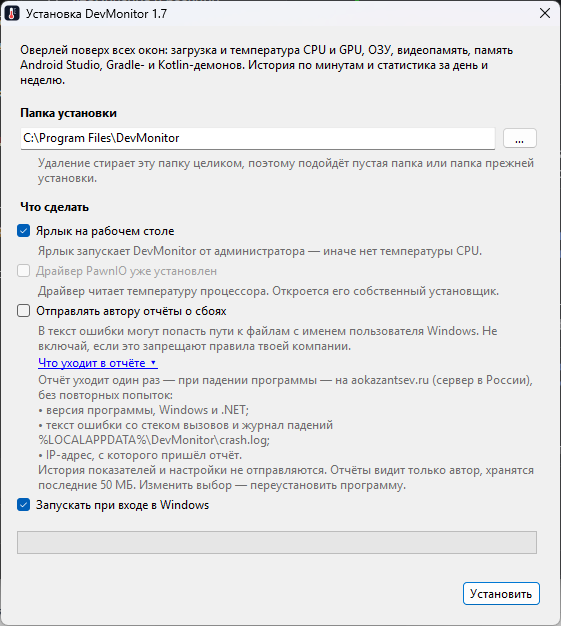
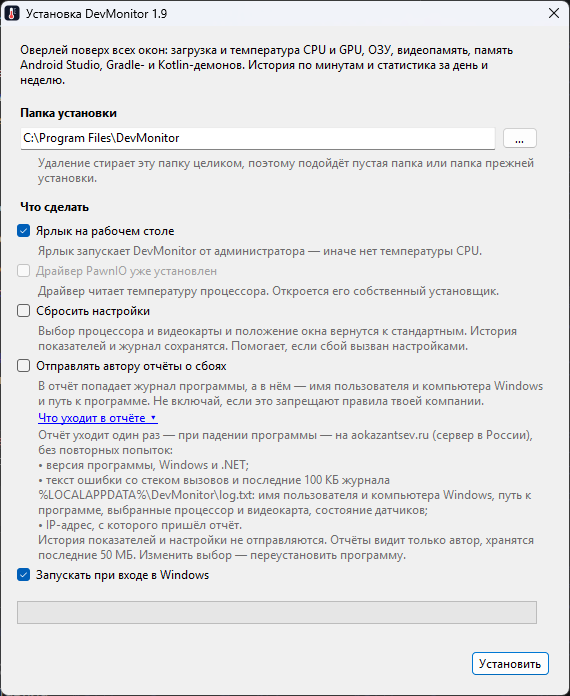
Проверка обновлений из трея с загрузкой установщика, галочка «Сбросить настройки» в установщике, версия 1.9

diff --git a/src/UpdateForm.cs b/src/UpdateForm.cs
@@ -1,0 +1,143 @@
+using System;
+using System.Diagnostics;
+using System.Drawing;
+using System.Threading;
+using System.Windows.Forms;
+
+namespace DevMonitor
+{
+    internal sealed class UpdateForm : Form
+    {
+        private const int ContentWidth = 420;
+
+        private static UpdateForm openForm;
+
+        private readonly Label status = new Label();
+        private readonly TextBox pathBox = new TextBox();
+        private readonly FlowLayoutPanel fileButtons = new FlowLayoutPanel();
+        private string downloadedPath;
+
+        public static void ShowSingle()
+        {
+            if (openForm != null)
+            {
+                openForm.Activate();
+                return;
+            }
+            openForm = new UpdateForm();
+            openForm.FormClosed += (sender, e) => openForm = null;
+            openForm.Show();
+            openForm.Start();
+        }
+
+        private UpdateForm()
+        {
+            Text = "Обновление " + AppIdentity.Name;
+            FormBorderStyle = FormBorderStyle.FixedDialog;
+            MaximizeBox = false;
+            MinimizeBox = false;
+            StartPosition = FormStartPosition.CenterScreen;
+            AutoScaleMode = AutoScaleMode.Dpi;
+            Font = SystemFonts.MessageBoxFont;
+            AutoSize = true;
+            AutoSizeMode = AutoSizeMode.GrowAndShrink;
+            Icon = Icon.ExtractAssociatedIcon(Application.ExecutablePath);
+
+            var layout = new TableLayoutPanel { AutoSize = true, ColumnCount = 1, Padding = new Padding(16) };
+            Controls.Add(layout);
+
+            status.AutoSize = true;
+            status.MaximumSize = new Size(ContentWidth, 0);
+            status.Text = "Проверяю, есть ли версия новее " + AppIdentity.Version + "…";
+            layout.Controls.Add(status);
+
+            pathBox.ReadOnly = true;
+            pathBox.Width = ContentWidth;
+            pathBox.Margin = new Padding(3, 10, 3, 3);
+            pathBox.Visible = false;
+            layout.Controls.Add(pathBox);
+
+            fileButtons.AutoSize = true;
+            fileButtons.Visible = false;
+            fileButtons.Margin = new Padding(0, 6, 0, 0);
+            var openFolder = new Button { Text = "Открыть папку", AutoSize = true };
+            openFolder.Click += (sender, e) => ShowInExplorer(downloadedPath);
+            var copyPath = new Button { Text = "Скопировать путь", AutoSize = true };
+            copyPath.Click += (sender, e) => Clipboard.SetText(downloadedPath);
+            fileButtons.Controls.Add(openFolder);
+            fileButtons.Controls.Add(copyPath);
+            layout.Controls.Add(fileButtons);
+
+            var close = new Button { Text = "Закрыть", AutoSize = true, Anchor = AnchorStyles.Right, Margin = new Padding(3, 12, 3, 0) };
+            close.Click += (sender, e) => Close();
+            layout.Controls.Add(close);
+            CancelButton = close;
+        }
+
+        private void Start()
+        {
+            var worker = new Thread(Check) { IsBackground = true };
+            worker.Start();
+        }
+
+        private void Check()
+        {
+            try
+            {
+                UpdateRelease release = UpdateChecker.FetchLatest();
+                Version current = UpdateChecker.CurrentVersion;
+                AppLog.Append("update check: installed " + AppIdentity.Version + ", latest " + release.VersionText);
+                if (release.Version <= current)
+                {
+                    Report("Установлена последняя версия — " + AppIdentity.Version + ".", null);
+                    return;
+                }
+                Report("Есть версия " + release.VersionText + ", скачиваю установщик (" + (release.Size / 1024 / 1024.0).ToString("0.0") + " МБ)…", null);
+                string path = UpdateChecker.Download(release);
+                AppLog.Append("update downloaded: " + path);
+                Report("Скачана версия " + release.VersionText + ". Запусти установщик — он поставит её поверх текущей, настройки сохранятся. "
+                    + "Папка с установщиком открыта в Проводнике; если окно не появилось — кнопка «Открыть папку».", path);
+            }
+            catch (Exception error)
+            {
+                AppLog.Append("update check failed: " + error);
+                Report("Не удалось проверить обновление: " + error.Message
+                    + Environment.NewLine + "Последняя версия всегда есть на " + AppIdentity.GitHubUrl + "/releases/latest", null);
+            }
+        }
+
+        private void Report(string text, string path)
+        {
+            try
+            {
+                BeginInvoke(new Action(() => ShowResult(text, path)));
+            }
+            catch (InvalidOperationException)
+            {
+            }
+        }
+
+        private void ShowResult(string text, string path)
+        {
+            status.Text = text;
+            if (path == null) return;
+            downloadedPath = path;
+            pathBox.Text = path;
+            pathBox.Visible = true;
+            fileButtons.Visible = true;
+            ShowInExplorer(path);
+        }
+
+        private static void ShowInExplorer(string path)
+        {
+            try
+            {
+                Process.Start(new ProcessStartInfo("explorer.exe", "/select,\"" + path + "\"") { UseShellExecute = false });
+            }
+            catch (System.ComponentModel.Win32Exception error)
+            {
+                AppLog.Append("explorer failed: " + error.Message);
+            }
+        }
+    }
+}

diff --git a/src/UpdateChecker.cs b/src/UpdateChecker.cs
@@ -1,0 +1,106 @@
+using System;
+using System.Globalization;
+using System.IO;
+using System.Net;
+using System.Runtime.InteropServices;
+using System.Text;
+using System.Text.RegularExpressions;
+
+namespace DevMonitor
+{
+    internal static class UpdateChecker
+    {
+        private const string GitHubPrefix = "https://github.com/";
+        private const string ApiPrefix = "https://api.github.com/repos/";
+        private const int RequestTimeoutMs = 15 * 1000;
+        private const int DownloadTimeoutMs = 120 * 1000;
+        private const int BufferSize = 81920;
+        private static readonly Guid DownloadsFolderId = new Guid("374DE290-123F-4565-9164-39C4925E467B");
+
+        public static Version CurrentVersion
+        {
+            get { return ParseVersion(AppIdentity.Version); }
+        }
+
+        public static Version ParseVersion(string text)
+        {
+            var parsed = new Version(text.Trim().TrimStart('v', 'V'));
+            return new Version(parsed.Major, parsed.Minor, Math.Max(0, parsed.Build), Math.Max(0, parsed.Revision));
+        }
+
+        public static UpdateRelease FetchLatest()
+        {
+            ServicePointManager.SecurityProtocol |= SecurityProtocolType.Tls12;
+            string url = ApiPrefix + AppIdentity.GitHubUrl.Substring(GitHubPrefix.Length) + "/releases/latest";
+            HttpWebRequest request = CreateRequest(url, RequestTimeoutMs);
+            request.Accept = "application/vnd.github+json";
+            string json;
+            using (var response = (HttpWebResponse)request.GetResponse())
+            using (var reader = new StreamReader(response.GetResponseStream(), Encoding.UTF8))
+            {
+                json = reader.ReadToEnd();
+            }
+            Match tag = Regex.Match(json, "\"tag_name\"\\s*:\\s*\"(v?[0-9][0-9.]*)\"");
+            if (!tag.Success) throw new InvalidDataException("в ответе GitHub нет номера версии");
+            string assetName = AppIdentity.Name + "Setup.exe";
+            Match asset = Regex.Match(json, "\"size\"\\s*:\\s*([0-9]+)[^{}]*?\"browser_download_url\"\\s*:\\s*\"([^\"]*/" + Regex.Escape(assetName) + ")\"");
+            if (!asset.Success) throw new InvalidDataException("в последнем релизе нет файла " + assetName);
+            return new UpdateRelease(tag.Groups[1].Value.TrimStart('v', 'V'), asset.Groups[2].Value,
+                long.Parse(asset.Groups[1].Value, CultureInfo.InvariantCulture));
+        }
+
+        public static string Download(UpdateRelease release)
+        {
+            string folder = DownloadsDirectory();
+            Directory.CreateDirectory(folder);
+            string target = Path.Combine(folder, AppIdentity.Name + "Setup-" + release.VersionText + ".exe");
+            string partial = target + ".part";
+            HttpWebRequest request = CreateRequest(release.DownloadUrl, DownloadTimeoutMs);
+            using (var response = (HttpWebResponse)request.GetResponse())
+            using (Stream source = response.GetResponseStream())
+            using (var output = new FileStream(partial, FileMode.Create, FileAccess.Write))
+            {
+                source.CopyTo(output, BufferSize);
+            }
+            if (release.Size > 0 && new FileInfo(partial).Length != release.Size)
+            {
+                File.Delete(partial);
+                throw new IOException("файл скачался не полностью");
+            }
+            if (File.Exists(target)) File.Delete(target);
+            File.Move(partial, target);
+            return target;
+        }
+
+        private static HttpWebRequest CreateRequest(string url, int timeoutMs)
+        {
+            ServicePointManager.SecurityProtocol |= SecurityProtocolType.Tls12;
+            var request = (HttpWebRequest)WebRequest.Create(url);
+            request.UserAgent = AppIdentity.Name + "/" + AppIdentity.Version;
+            request.Timeout = timeoutMs;
+            request.ReadWriteTimeout = timeoutMs;
+            return request;
+        }
+
+        private static string DownloadsDirectory()
+        {
+            Guid folderId = DownloadsFolderId;
+            IntPtr pathPointer;
+            if (SHGetKnownFolderPath(ref folderId, 0, IntPtr.Zero, out pathPointer) == 0)
+            {
+                try
+                {
+                    return Marshal.PtrToStringUni(pathPointer);
+                }
+                finally
+                {
+                    Marshal.FreeCoTaskMem(pathPointer);
+                }
+            }
+            return Path.Combine(Environment.GetFolderPath(Environment.SpecialFolder.UserProfile), "Downloads");
+        }
+
+        [DllImport("shell32.dll")]
+        private static extern int SHGetKnownFolderPath(ref Guid folderId, uint flags, IntPtr token, out IntPtr path);
+    }
+}

diff --git a/installer/setup/SetupProfile.cs b/installer/setup/SetupProfile.cs
@@ -9,6 +9,7 @@ namespace DevMonitor
     {
         private const string ShortcutKey = "shortcut";
         private const string DriverKey = "driver";
+        private const string ResetSettingsKey = "resetSettings";
 
         public const string Intro =
             "Оверлей поверх всех окон: загрузка и температура CPU и GPU, ОЗУ, видеопамять, память Android Studio, "
@@ -46,6 +47,14 @@ namespace DevMonitor
                 },
                 new SetupOption
                 {
+                    Key = ResetSettingsKey,
+                    Text = "Сбросить настройки",
+                    Hint = "Выбор процессора и видеокарты и положение окна вернутся к стандартным. История показателей и журнал "
+                        + "сохранятся. Помогает, если сбой вызван настройками.",
+                    Checked = false
+                },
+                new SetupOption
+                {
                     Key = CrashReportConsent.OptionKey,
                     Text = "Отправлять автору отчёты о сбоях",
                     Hint = "В отчёт попадает журнал программы, а в нём — имя пользователя и компьютера Windows и путь к программе. "
@@ -66,8 +75,20 @@ namespace DevMonitor
 
         public static void BeforeExtract(InstallRequest request, Action<int, string> report, List<string> notes)
         {
+            if (request.Has(ResetSettingsKey))
+            {
+                DeleteSetting("settings.txt");
+                DeleteSetting("position.txt");
+                SetupLog.Append("settings reset");
+            }
             CrashReportConsent.Set(request.Has(CrashReportConsent.OptionKey));
             SetupLog.Append("crash reports: " + request.Has(CrashReportConsent.OptionKey));
+        }
+
+        private static void DeleteSetting(string name)
+        {
+            string path = Path.Combine(AppIdentity.DataDirectory, name);
+            if (File.Exists(path)) File.Delete(path);
         }
 
         public static void AfterExtract(InstallRequest request, Action<int, string> report, List<string> notes)

diff --git a/src/OverlayForm.cs b/src/OverlayForm.cs
@@ -311,6 +311,7 @@ namespace DevMonitor
             menu.Items.Add("Журнал", null, delegate { OpenLog(); });
             startupItem.Click += delegate { ToggleStartup(); };
             menu.Items.Add(startupItem);
+            menu.Items.Add("Проверить обновление…", null, delegate { UpdateForm.ShowSingle(); });
             menu.Items.Add("О приложении…", null, delegate { AboutForm.ShowSingle(); });
             menu.Items.Add(new ToolStripSeparator());
             menu.Items.Add("Выход", null, delegate { Close(); });

diff --git a/src/UpdateRelease.cs b/src/UpdateRelease.cs
@@ -1,0 +1,20 @@
+using System;
+
+namespace DevMonitor
+{
+    internal sealed class UpdateRelease
+    {
+        public readonly Version Version;
+        public readonly string VersionText;
+        public readonly string DownloadUrl;
+        public readonly long Size;
+
+        public UpdateRelease(string versionText, string downloadUrl, long size)
+        {
+            VersionText = versionText;
+            Version = UpdateChecker.ParseVersion(versionText);
+            DownloadUrl = downloadUrl;
+            Size = size;
+        }
+    }
+}

diff --git a/installer/setup/AssemblyInfo.cs b/installer/setup/AssemblyInfo.cs
@@ -6,7 +6,7 @@ using System.Runtime.InteropServices;
 [assembly: AssemblyCompany("aokazantsev")]
 [assembly: AssemblyProduct("DevMonitor")]
 [assembly: AssemblyCopyright("Copyright (c) 2026 aokazantsev. MIT License")]
-[assembly: AssemblyVersion("1.8.0.0")]
-[assembly: AssemblyFileVersion("1.8.0.0")]
-[assembly: AssemblyInformationalVersion("1.8")]
+[assembly: AssemblyVersion("1.9.0.0")]
+[assembly: AssemblyFileVersion("1.9.0.0")]
+[assembly: AssemblyInformationalVersion("1.9")]
 [assembly: ComVisible(false)]

diff --git a/installer/uninstall/AssemblyInfo.cs b/installer/uninstall/AssemblyInfo.cs
@@ -6,7 +6,7 @@ using System.Runtime.InteropServices;
 [assembly: AssemblyCompany("aokazantsev")]
 [assembly: AssemblyProduct("DevMonitor")]
 [assembly: AssemblyCopyright("Copyright (c) 2026 aokazantsev. MIT License")]
-[assembly: AssemblyVersion("1.8.0.0")]
-[assembly: AssemblyFileVersion("1.8.0.0")]
-[assembly: AssemblyInformationalVersion("1.8")]
+[assembly: AssemblyVersion("1.9.0.0")]
+[assembly: AssemblyFileVersion("1.9.0.0")]
+[assembly: AssemblyInformationalVersion("1.9")]
 [assembly: ComVisible(false)]

diff --git a/src/AssemblyInfo.cs b/src/AssemblyInfo.cs
@@ -6,7 +6,7 @@ using System.Runtime.InteropServices;
 [assembly: AssemblyCompany("aokazantsev")]
 [assembly: AssemblyProduct("DevMonitor")]
 [assembly: AssemblyCopyright("Copyright (c) 2026 aokazantsev. MIT License")]
-[assembly: AssemblyVersion("1.8.0.0")]
-[assembly: AssemblyFileVersion("1.8.0.0")]
-[assembly: AssemblyInformationalVersion("1.8")]
+[assembly: AssemblyVersion("1.9.0.0")]
+[assembly: AssemblyFileVersion("1.9.0.0")]
+[assembly: AssemblyInformationalVersion("1.9")]
 [assembly: ComVisible(false)]

diff --git a/src/AppIdentity.cs b/src/AppIdentity.cs
@@ -6,7 +6,7 @@ namespace DevMonitor
     internal static class AppIdentity
     {
         public const string Name = "DevMonitor";
-        public const string Version = "1.8";
+        public const string Version = "1.9";
         public const string ExecutableName = "DevMonitor.exe";
         public const string ProcessName = "DevMonitor";
         public const string UninstallerName = "Uninstall.exe";

diff --git a/CHANGELOG.md b/CHANGELOG.md
@@ -2,6 +2,14 @@
 
 Актуальная версия — в [Releases](../../releases/latest).
 
+## 1.9 — 06.10.2026
+
+- В меню трея пункт «Проверить обновление…»: программа сверяется с последним релизом на GitHub и, если
+  есть версия новее, скачивает установщик в «Загрузки» и открывает его в Проводнике. Окно с путём и
+  кнопкой «Открыть папку» остаётся, если Проводник не появился. Установщик ставит новую версию поверх
+  текущей, настройки сохраняются.
+- В установщике галочка «Сбросить настройки» (по умолчанию выключена) — если сбой вызван настройками.
+
 ## 1.8 — 06.10.2026
 
 - Журнал `log.txt` (трей → «Журнал»): запуск, выбранное железо, как запустился каждый датчик и почему

diff --git a/README.md b/README.md
@@ -52,6 +52,13 @@
 - **Как изменить выбор.** Переустановить программу с галочкой или без неё. Деинсталлятор удаляет
   согласие вместе с остальными данными.
 
+## Обновление
+
+Трей → «Проверить обновление…». Есть версия новее — установщик скачивается в «Загрузки» и
+открывается в Проводнике; путь к нему и кнопка «Открыть папку» остаются в окне. Запусти его — новая
+версия встанет поверх текущей, удалять старую не нужно, настройки сохранятся. Если сбой вызван
+настройками, в установщике есть галочка «Сбросить настройки».
+
 ## Удаление
 
 «Параметры → Приложения → DevMonitor → Удалить» или `Uninstall.exe` в папке программы. Программа
